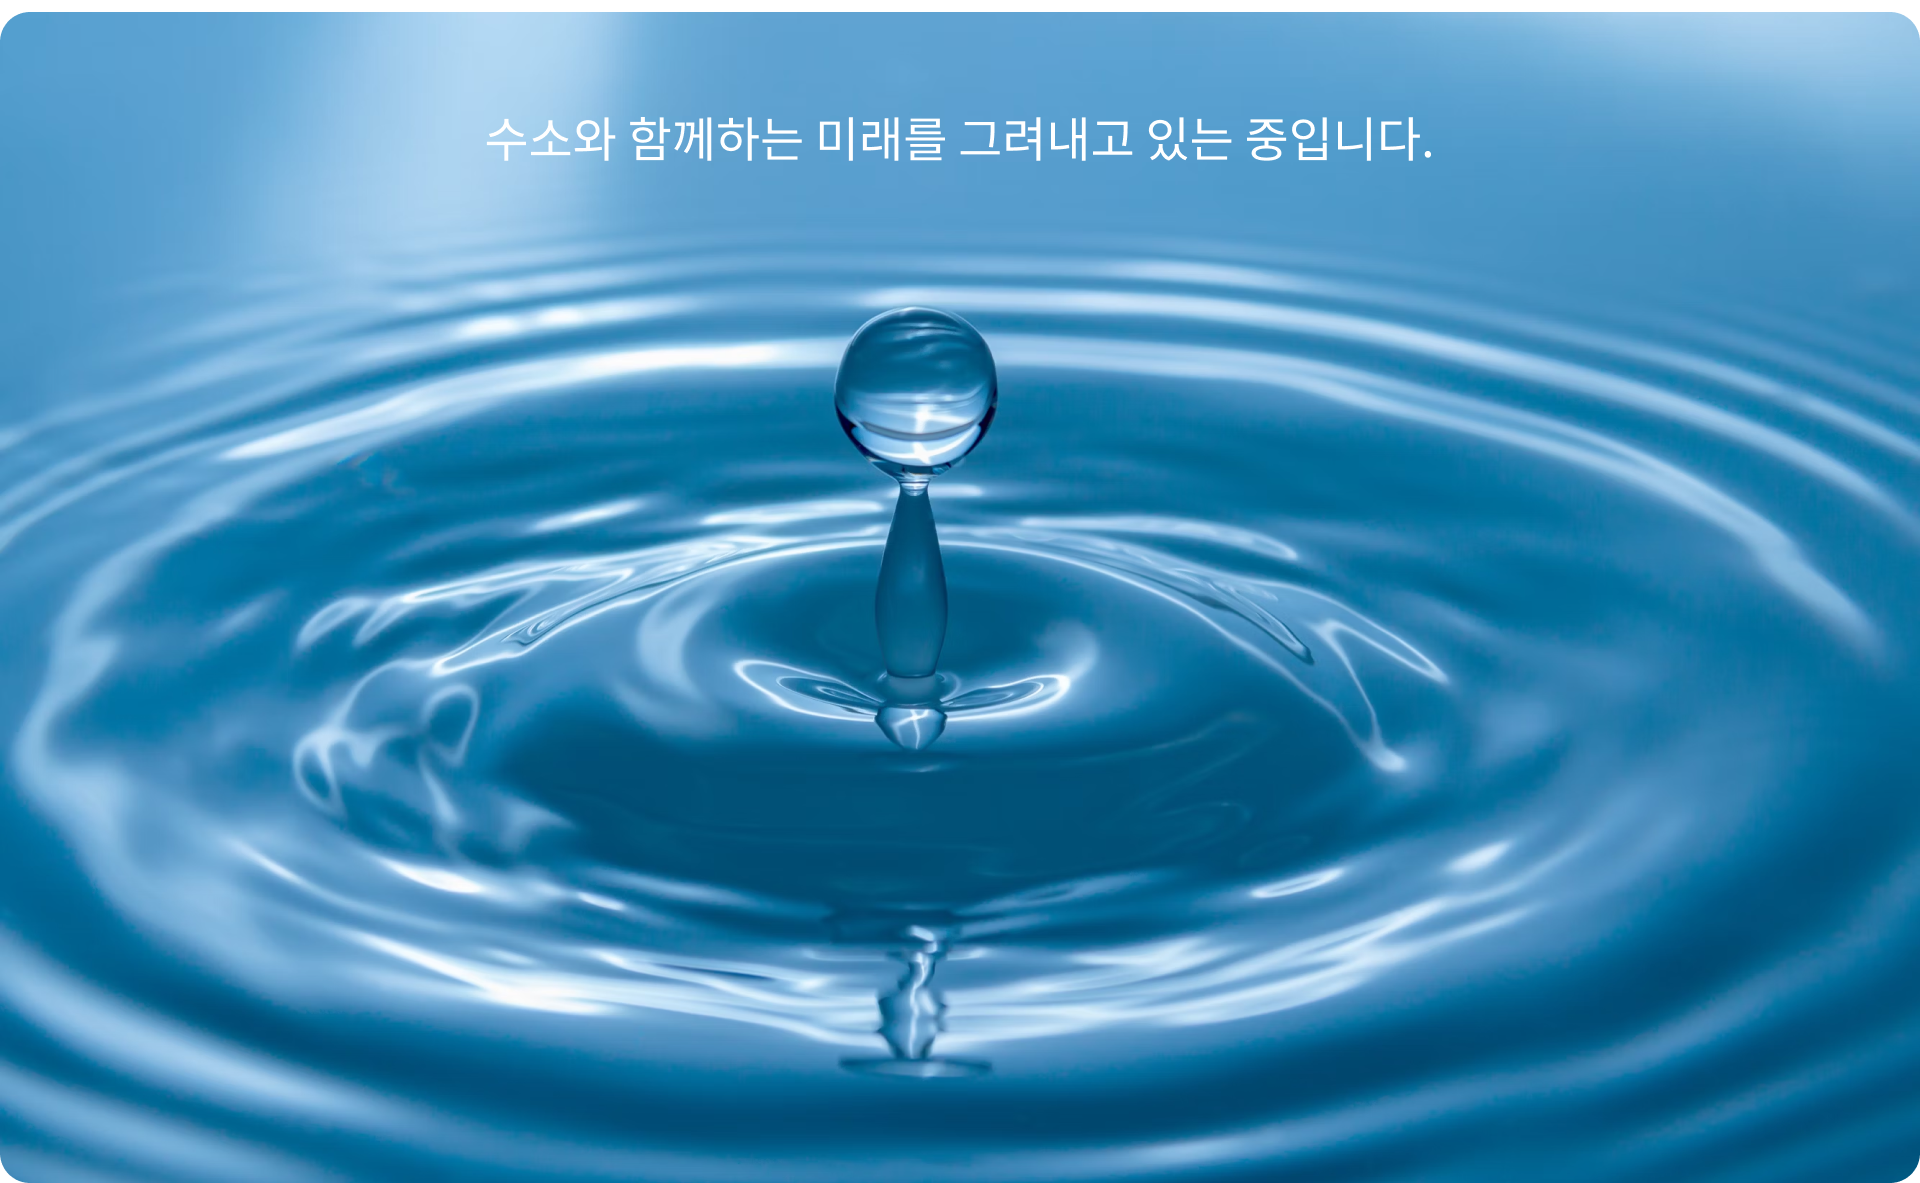
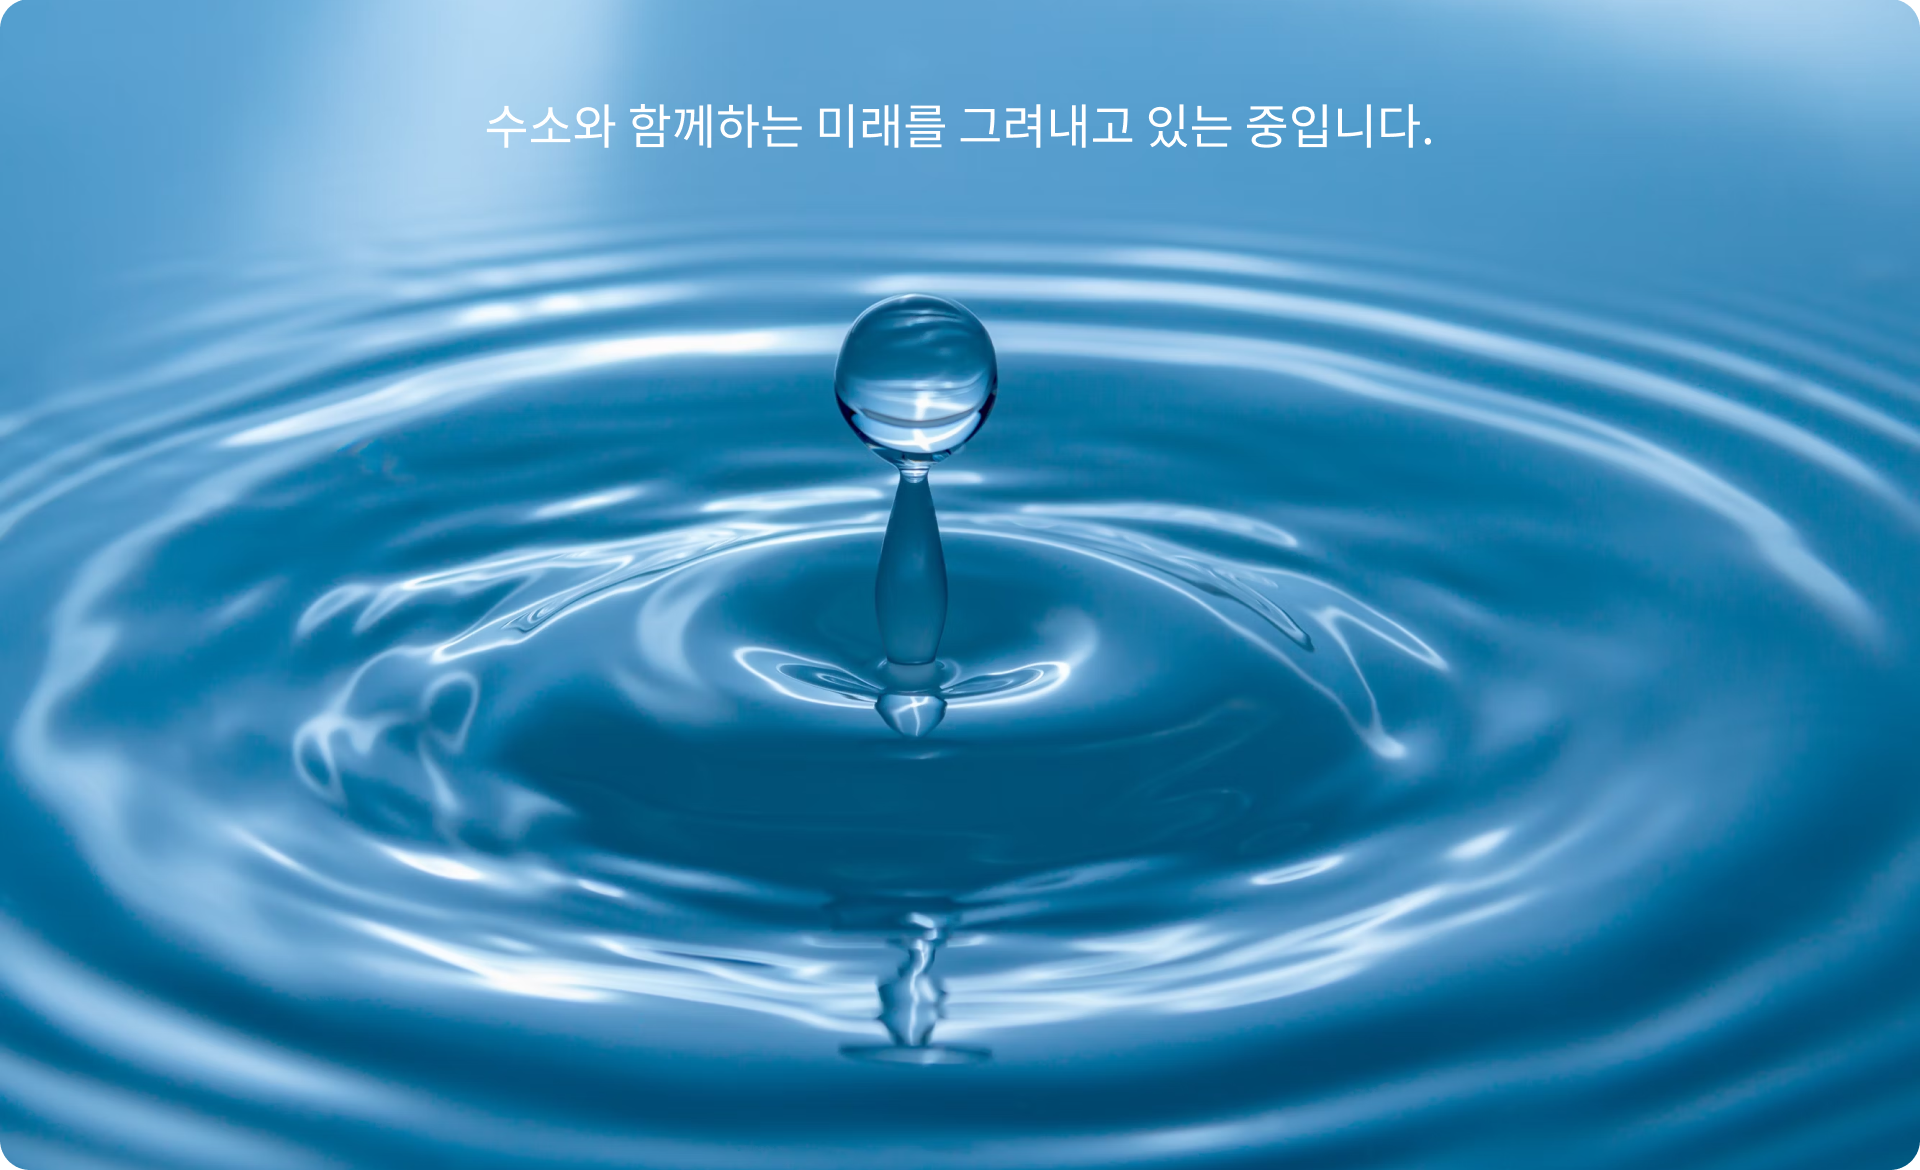
feat: hydrogen 영문 이미지 추가

diff --git a/src/components/hydrogen/TempHydrogenComponent.tsx b/src/components/hydrogen/TempHydrogenComponent.tsx
@@ -1,0 +1,24 @@
+'use client'
+import { isEnglishState } from '@/context/recoil-context'
+import Image from 'next/image'
+import { useRecoilValue } from 'recoil'
+
+const Data = [
+  {
+    // hydrogen 임시 데이터
+    src: ['/image/hydrogen/hydrogen_intro.png', '/image/hydrogen/hydrogen-en.png'],
+  },
+]
+export default function TempHydrogenComponent() {
+  const isEnglish = useRecoilValue(isEnglishState)
+
+  return (
+    <>
+      <div className="flex flex-col w-full items-center justify-center">
+        <p className="text-4xl text-[#79AD4B] mt-48 mb-32">HYDROGEN</p>
+
+        <Image alt="hydrogen" src={Data?.[0].src?.[isEnglish]} width={1500} height={850} />
+      </div>
+    </>
+  )
+}

diff --git a/src/app/(home)/hydrogen/page.tsx b/src/app/(home)/hydrogen/page.tsx
@@ -1,16 +1,13 @@
-import Image from 'next/image'
+import TempHydrogenComponent from '@/components/hydrogen/TempHydrogenComponent'
 
 export const metadata = {
   title: '(주)아이비티 수소',
   description: 'IBT 수소 제품 소개 페이지',
 }
 
-export default function pagHydrogenPage() {
+export default function PagHydrogenPage() {
   return (
     // 임시
-    <div className="flex flex-col w-full items-center justify-center">
-      <p className="text-4xl text-[#79AD4B] mt-48 mb-32">HYDROGEN</p>
-      <Image alt="hydrogen" src={'/image/hydrogen/hydrogen_intro.png'} width={1920} height={1183} />
-    </div>
+    <TempHydrogenComponent />
   )
 }
